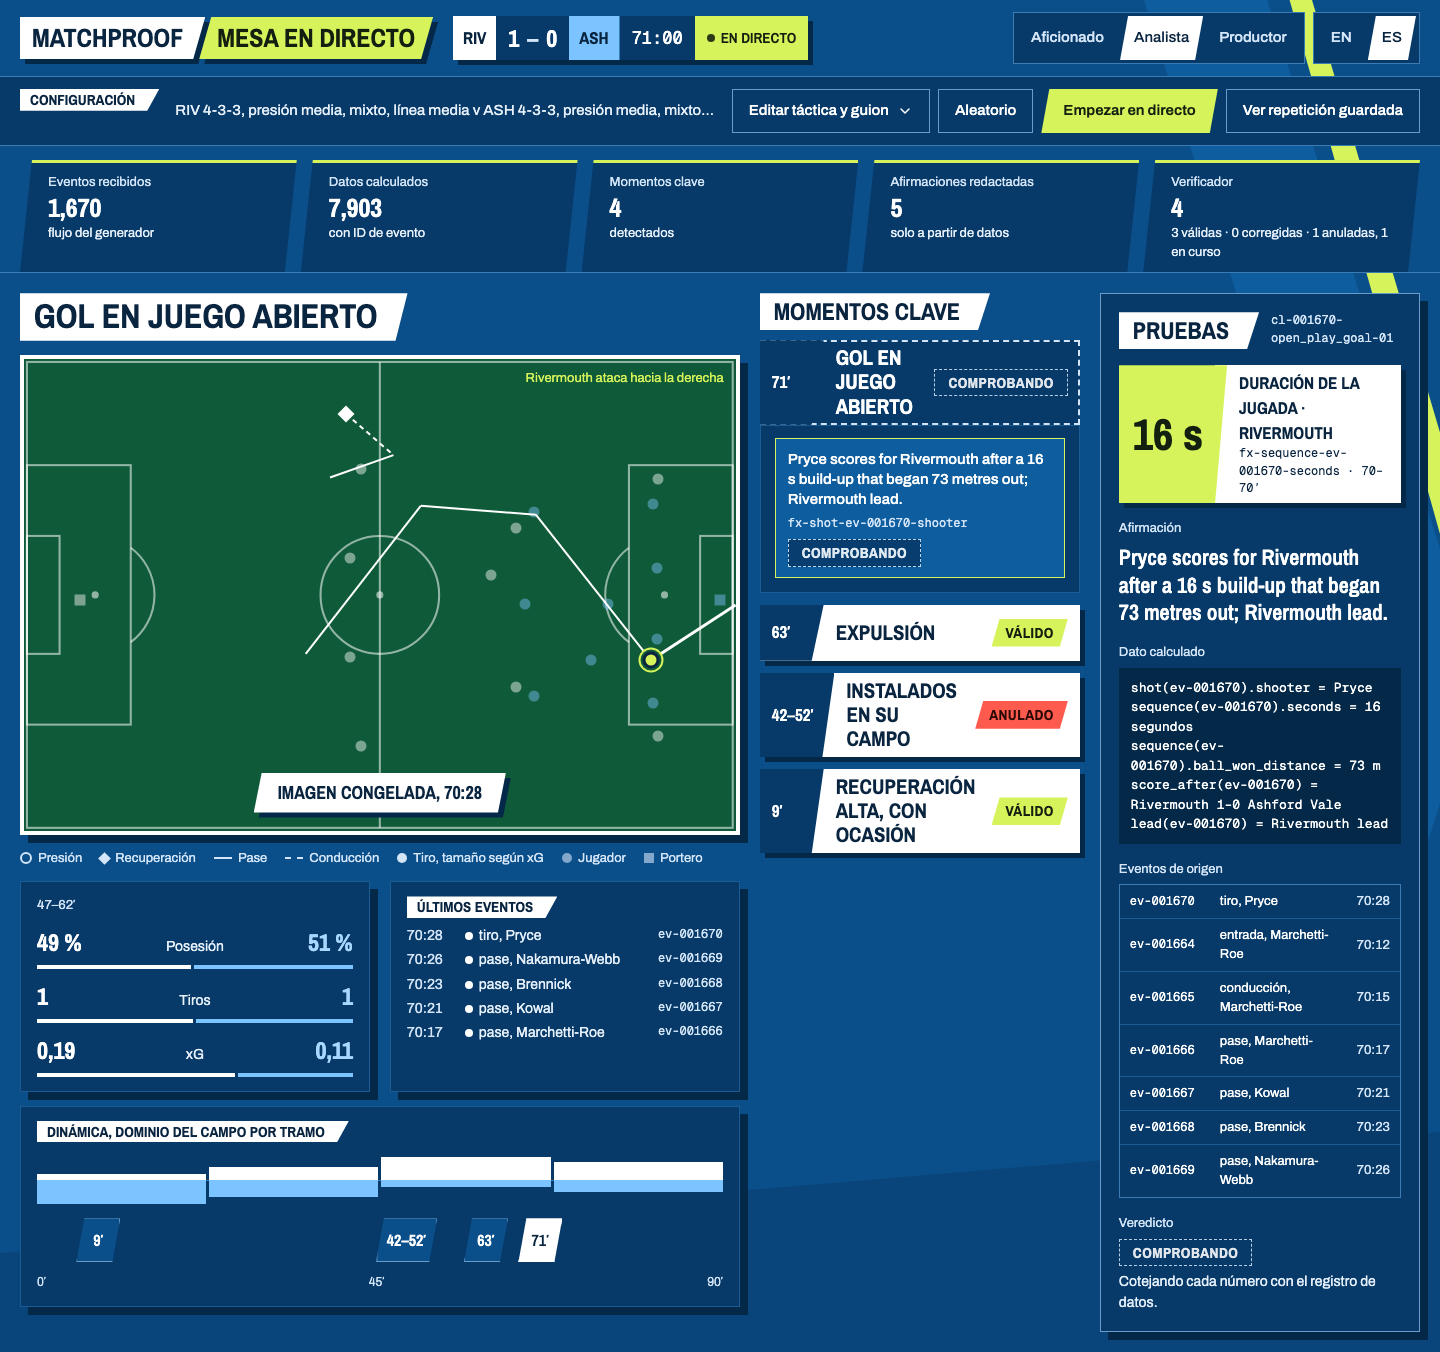
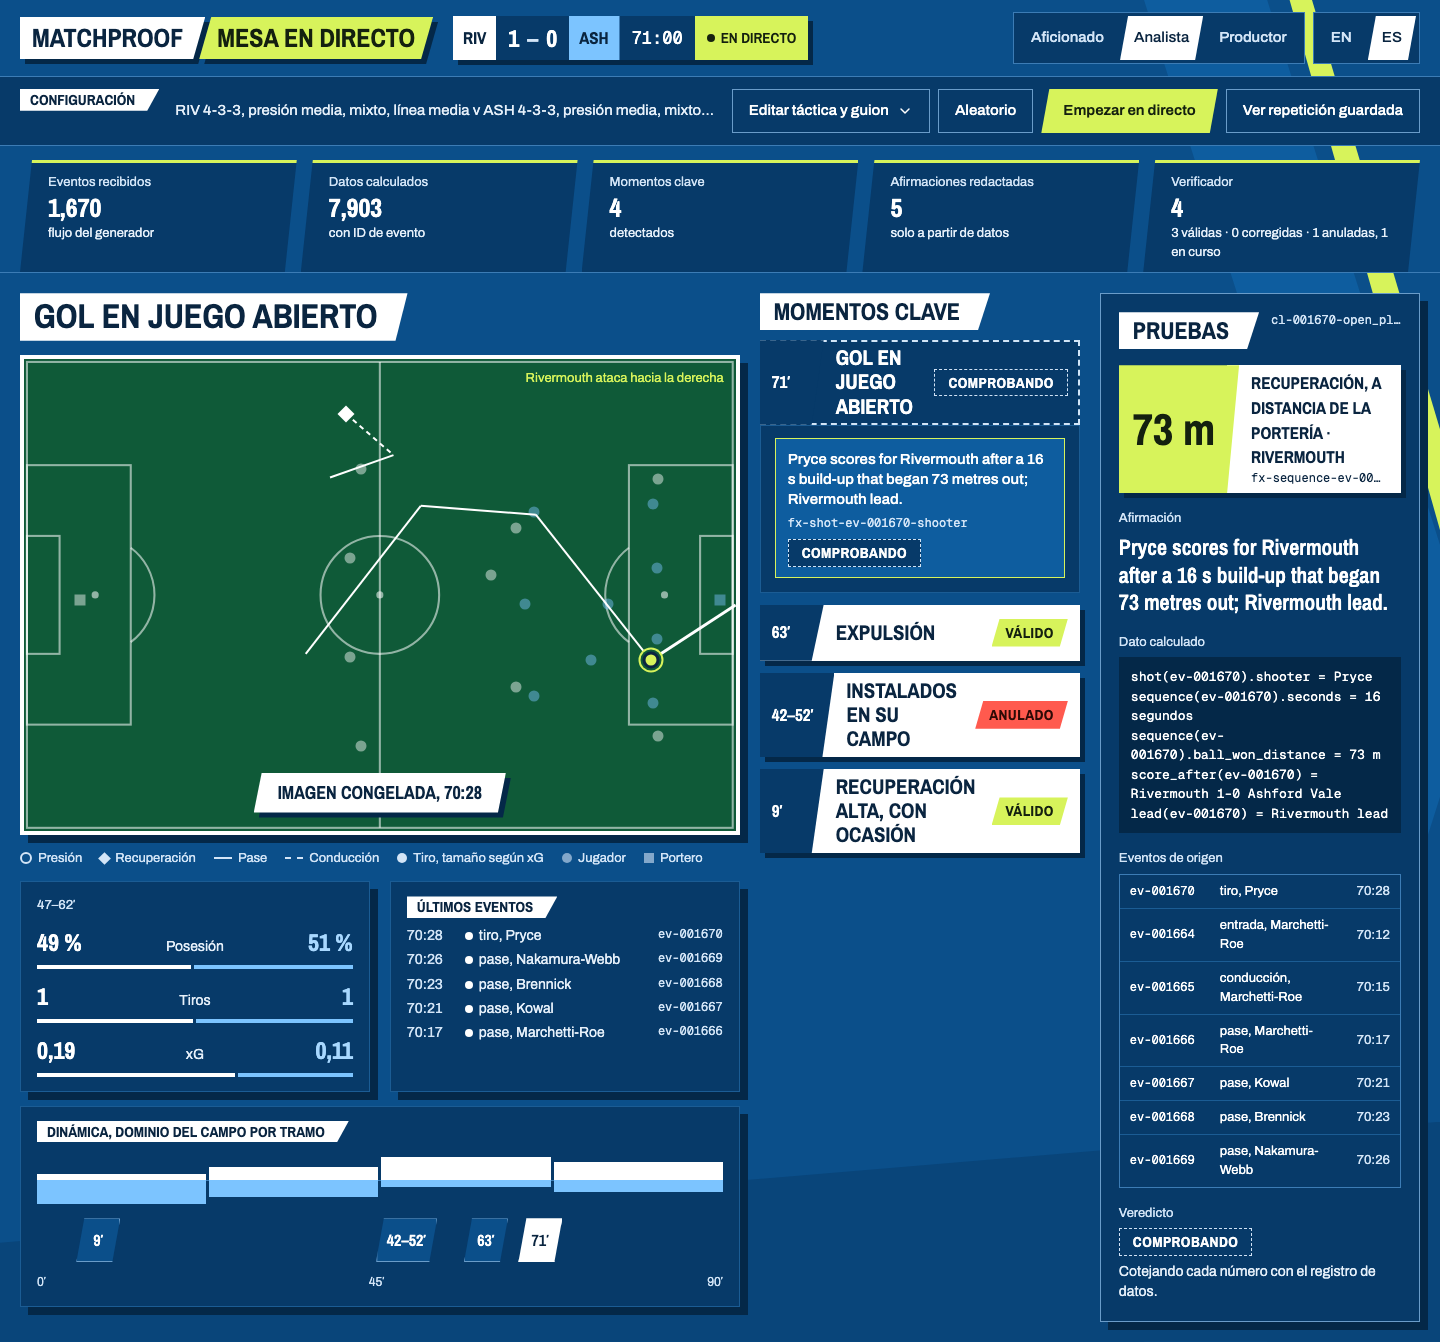
Show overturned claims in Analyst, label checker reasons and tidy the stat card

diff --git a/apps/web/src/desk/railModel.ts b/apps/web/src/desk/railModel.ts
@@ -43,7 +43,9 @@ export function metricKey(name: string): string {
 export function windowLabel(fact: Fact, c: Copy): string | undefined {
   const scope = fact.scope;
   if (scope?.t_from === undefined || scope.t_to === undefined) return undefined;
-  return fill(c.stats.window, { from: formatMinute(scope.t_from), to: formatMinute(scope.t_to) });
+  const from = formatMinute(scope.t_from);
+  const to = formatMinute(scope.t_to);
+  return from === to ? undefined : fill(c.stats.window, { from, to });
 }
 
 function metricLabel(fact: Fact, c: Copy, sideFallback?: "home" | "away"): string {
@@ -51,6 +53,13 @@ function metricLabel(fact: Fact, c: Copy, sideFallback?: "home" | "away"): strin
   const label = c.metric[key] ?? key;
   const side = fact.scope?.side ?? sideFallback;
   return side ? `${label} · ${c.side[side]}` : label;
+}
+
+const isHeadline = (f: Fact): boolean => f.unit === "m" || f.unit === "count" || f.name.startsWith("score_after");
+
+/** The claim's first number a viewer reads as the point: a distance, count or score before a duration. */
+export function pickLead(facts: Fact[]): Fact | undefined {
+  return facts.find(isHeadline) ?? facts.find((f) => f.unit !== "s") ?? facts[0];
 }
 
 export function buildRail(fx: DeskFixture, claimFactIds: string[], numberFactIds: string[], lang: Lang, c: Copy, side?: "home" | "away"): RailView {
@@ -74,7 +83,7 @@ export function buildRail(fx: DeskFixture, claimFactIds: string[], numberFactIds
     return { id, label: c.rail.aggregate, who: source?.kind === "aggregate" ? source.description : "", time: "" };
   });
 
-  const lead = numberFactIds.map((id) => factById.get(id)).find((f) => f !== undefined);
+  const lead = pickLead(numberFactIds.flatMap((id) => factById.get(id) ?? []));
   const statCard = lead
     ? { value: shortDisplayOf(lead, lang), metric: metricLabel(lead, c, side), factId: lead.id, window: windowLabel(lead, c) }
     : undefined;

diff --git a/apps/web/src/app/desk.css b/apps/web/src/app/desk.css
@@ -151,13 +151,15 @@ button:focus-visible, select:focus-visible, textarea:focus-visible, input:focus-
 .mp-card-value { white-space: nowrap; padding: 6px 24px 6px 14px; background: var(--mp-lime); color: var(--mp-limeInk); clip-path: var(--mp-cutTab); font-family: var(--mp-display); font-weight: 700; font-size: 44px; line-height: 1; display: flex; align-items: center; }
 .mp-card-label { flex: 1 1 auto; min-width: 0; margin-left: -12px; padding: 6px 14px 6px 24px; background: var(--mp-chip); color: var(--mp-ink); display: flex; flex-direction: column; justify-content: center; font-size: 13px; }
 .mp-card-label b { font-family: var(--mp-display); font-size: 17px; text-transform: uppercase; }
+.mp-card-id { font-size: 12px; max-width: 100%; overflow: hidden; text-overflow: ellipsis; white-space: nowrap; }
 .mp-step { display: flex; flex-direction: column; gap: 6px; }
 .mp-step > span:first-child { font-size: 13px; color: var(--mp-muted); }
 .mp-code { display: block; padding: 10px 12px; background: var(--mp-code); font-family: var(--mp-mono); font-size: 13px; line-height: 1.5; white-space: pre-wrap; word-break: break-word; }
 .mp-events { border: 1px solid var(--mp-line); }
 .mp-events > div { display: grid; grid-template-columns: 82px minmax(0, 1fr) 52px; gap: 8px; align-items: center; padding: 7px 10px; border-bottom: 1px solid var(--mp-line2); font-size: 13px; }
 .mp-events > div:last-child { border-bottom: 0; }
-.mp-events .mono { font-size: 12px; }
+.mp-events .mono { font-size: 12px; overflow-wrap: anywhere; }
+.mp-rail-id { min-width: 0; font-size: 12px; overflow: hidden; text-overflow: ellipsis; white-space: nowrap; }
 .mp-sr { position: absolute; width: 1px; height: 1px; overflow: hidden; clip-path: inset(50%); white-space: nowrap; }
 
 @media (max-width: 600px) {

diff --git a/apps/web/src/desk/reason.test.ts b/apps/web/src/desk/reason.test.ts
@@ -1,0 +1,36 @@
+import { describe, expect, it } from "vitest";
+import { copy } from "./copy";
+import { fixture } from "./fixture";
+import { buildRail, pickLead } from "./railModel";
+import { displayReason } from "./reason";
+
+describe("displayReason", () => {
+  it("replaces the judge prefix with a category label", () => {
+    expect(displayReason("Judge (overclaim): 'pressing hard' is not in the facts.", copy.en)).toBe("Overclaim: 'pressing hard' is not in the facts.");
+  });
+  it("replaces the voice rule prefix", () => {
+    const raw = 'Voice rule evaluative-adjective broken by "tidy": A judgement the data cannot support; say what happened.';
+    expect(displayReason(raw, copy.es)).toBe("Adjetivo sin respaldo: A judgement the data cannot support; say what happened.");
+  });
+  it("never shows the internal names", () => {
+    for (const claim of fixture.claims) {
+      for (const lang of ["en", "es"] as const) {
+        expect(displayReason(claim.reason ?? "", copy[lang])).not.toMatch(/\bjudge\b|voice rule/i);
+      }
+    }
+  });
+});
+
+describe("stat card", () => {
+  const byId = new Map(fixture.facts.map((f) => [f.id, f]));
+  it("prefers a distance over a duration", () => {
+    const claim = fixture.claims.find((c) => c.id === "cl-001670-open_play_goal-01");
+    const lead = pickLead((claim?.numbers ?? []).flatMap((n) => byId.get(n.fact_id) ?? []));
+    expect(lead?.unit).toBe("m");
+  });
+  it("leaves the window off a single-minute span", () => {
+    const claim = fixture.claims.find((c) => c.id === "cl-001670-open_play_goal-01");
+    const rail = buildRail(fixture, claim?.fact_ids ?? [], (claim?.numbers ?? []).map((n) => n.fact_id), "en", copy.en);
+    expect(rail.statCard?.window).toBeUndefined();
+  });
+});

diff --git a/apps/web/src/components/desk/EvidenceRail.tsx b/apps/web/src/components/desk/EvidenceRail.tsx
@@ -1,6 +1,7 @@
 import type { Copy } from "@/desk/copy";
 import type { ClaimView } from "@/desk/model";
 import type { RailView } from "@/desk/railModel";
+import { displayReason } from "@/desk/reason";
 import { SectionTab } from "./SectionTab";
 import { StatCard } from "./StatCard";
 import { VerdictStamp } from "./VerdictStamp";
@@ -14,13 +15,13 @@ interface EvidenceRailProps {
 export function EvidenceRail({ copy, claim, rail }: EvidenceRailProps) {
   const r = copy.rail;
   const verdict = claim?.verdict;
-  const note = verdict === "checking" || verdict === "verified" || verdict === "delayed" ? copy.verdictNote[verdict] : claim?.claim.reason;
+  const note = verdict === "checking" || verdict === "verified" || verdict === "delayed" ? copy.verdictNote[verdict] : claim?.claim.reason ? displayReason(claim.claim.reason, copy) : undefined;
   return (
     <aside className="mp-col-rail mp-above" aria-label={r.title}>
       <div className="mp-rail">
         <div className="mp-rail-head">
           <SectionTab size="md">{r.title}</SectionTab>
-          <span className="mono mp-muted" style={{ fontSize: 12 }}>{claim?.claim.id}</span>
+          <span className="mono mp-muted mp-rail-id" title={claim?.claim.id}>{claim?.claim.id}</span>
         </div>
         {!claim || !rail ? <p className="mp-muted">{r.empty}</p> : null}
         {claim && rail ? (

diff --git a/apps/web/src/desk/model.ts b/apps/web/src/desk/model.ts
@@ -15,7 +15,10 @@ export interface BeatView {
   headlineKey: string;
   verdict: Verdict;
   claims: ClaimView[];
+  /** Claims the checker overturned in this beat, whether or not the mode shows them. */
   removed: number;
+  /** Every claim verdict in the beat, shown or not. */
+  verdicts: Verdict[];
   selected: boolean;
 }
 
@@ -39,7 +42,7 @@ export function beatVerdict(verdicts: Verdict[]): Verdict {
 }
 
 function showsBlocked(mode: Mode): boolean {
-  return mode === "producer";
+  return mode !== "fan";
 }
 
 export function buildModel(fx: DeskFixture, state: ReviewState): DeskModel {
@@ -62,13 +65,14 @@ export function buildModel(fx: DeskFixture, state: ReviewState): DeskModel {
   const feed = [...revealed].reverse().map((beat): BeatView => {
     const all = claimsOf(beat).map((claim) => ({ claim, verdict: verdictOf(claim, beat), selected: claim.id === wanted }));
     const shown = all.filter((c) => showsBlocked(state.mode) || c.verdict !== "blocked");
-    const removed = all.length - shown.length;
+    const removed = all.filter((c) => c.verdict === "blocked").length;
     return {
       beat,
       headlineKey: beat.kind,
       verdict: beatVerdict(all.map((c) => c.verdict)),
       claims: shown,
       removed,
+      verdicts: all.map((c) => c.verdict),
       selected: beat.id === selectedBeat?.id,
     };
   });

diff --git a/apps/web/src/components/desk/ClaimItem.tsx b/apps/web/src/components/desk/ClaimItem.tsx
@@ -1,5 +1,6 @@
 import type { Copy } from "@/desk/copy";
 import type { ClaimView } from "@/desk/model";
+import { displayReason } from "@/desk/reason";
 import { VerdictStamp } from "./VerdictStamp";
 
 interface ClaimItemProps {
@@ -19,12 +20,12 @@ export function ClaimItem({ copy, view, onPick }: ClaimItemProps) {
         <span className={overturned ? "mp-struck" : undefined} style={{ fontWeight: 500, lineHeight: 1.35 }}>
           {overturned ? (claim.draft_text ?? claim.text) : claim.text}
         </span>
-        {overturned && claim.reason ? <span className="mp-note">{claim.reason}</span> : null}
+        {overturned && claim.reason ? <span className="mp-note">{displayReason(claim.reason, copy)}</span> : null}
         <span style={{ display: "flex", flexWrap: "wrap", alignItems: "center", justifyContent: "space-between", gap: "6px 10px" }}>
           <span className="mono mp-muted" style={{ fontSize: 12 }}>
             {claim.fact_ids[0]}
           </span>
-          <VerdictStamp verdict={verdict} copy={copy} reason={claim.reason} />
+          <VerdictStamp verdict={verdict} copy={copy} reason={claim.reason ? displayReason(claim.reason, copy) : undefined} />
         </span>
       </button>
     </li>

diff --git a/apps/web/e2e/shots.spec.ts b/apps/web/e2e/shots.spec.ts
@@ -21,6 +21,10 @@ test("full-page desk shots", async ({ page }) => {
   await page.screenshot({ path: `${OUT}/setup-open-1440.png`, fullPage: true });
   await open(page, "?mode=fan");
   await page.screenshot({ path: `${OUT}/fan-1440.png`, fullPage: true });
+  await open(page, "?mode=producer&beat=bt-000993-territorial_spell");
+  await page.screenshot({ path: `${OUT}/producer-1440.png`, fullPage: true });
+  await open(page, "?beat=bt-000993-territorial_spell");
+  await page.screenshot({ path: `${OUT}/analyst-overturned-1440.png`, fullPage: true });
   await open(page, "?lang=es");
   await page.screenshot({ path: `${OUT}/es-1440.png`, fullPage: true });
   await open(page, "", PHONE);
@@ -33,7 +37,7 @@ const STAMPS: [string, string, string][] = [
   ["checking", "", "CHECKING"],
   ["verified", "?beat=bt-001484-card", "STANDS"],
   ["rephrased", "?claim=cl-001670-open_play_goal-01&stamp=rephrased", "AMENDED"],
-  ["blocked", "?mode=producer&beat=bt-000993-territorial_spell", "OVERTURNED"],
+  ["blocked", "?beat=bt-000993-territorial_spell", "OVERTURNED"],
   ["delayed", "?stamp=delayed", "HELD"],
 ];
 

diff --git a/apps/web/src/desk/statsModel.ts b/apps/web/src/desk/statsModel.ts
@@ -80,17 +80,16 @@ export function scoreAt(fx: DeskFixture, clock: number): { home: number; away: n
 
 export function buildPipeline(fx: DeskFixture, model: DeskModel): PipelineView {
   const counts = fx.count_timeline[model.minute] ?? { events: 0, facts: 0 };
-  const verdicts = model.feed.flatMap((row) => row.claims.map((c) => c.verdict));
+  const verdicts = model.feed.flatMap((row) => row.verdicts);
   const tally = (v: string): number => verdicts.filter((x) => x === v).length;
-  const removed = model.feed.reduce((sum, row) => sum + row.removed, 0);
   return {
     events: counts.events,
     facts: counts.facts,
     beats: model.revealed.length,
-    claims: verdicts.length + removed,
+    claims: verdicts.length,
     stand: tally("verified"),
     amended: tally("rephrased"),
-    overturned: tally("blocked") + removed,
+    overturned: tally("blocked"),
     checking: tally("checking"),
   };
 }

diff --git a/apps/web/src/desk/reason.ts b/apps/web/src/desk/reason.ts
@@ -1,0 +1,16 @@
+import type { Copy } from "./copy";
+
+const JUDGE = /^Judge \(([^)]+)\):\s*(.*)$/s;
+const VOICE = /^Voice rule ([\w-]+) broken by [^:]*:\s*(.*)$/s;
+const INTERNAL = /\bjudge\b|voice rule/i;
+
+/** A checker reason for the desk: a short category label from copy, then the sentence after the prefix. */
+export function displayReason(raw: string, c: Copy): string {
+  const match = JUDGE.exec(raw) ?? VOICE.exec(raw);
+  const labels: Record<string, string> = c.reasonCategory;
+  if (match) {
+    const [, category = "", sentence = ""] = match;
+    return `${labels[category] ?? c.reasonCategory.other}: ${sentence}`;
+  }
+  return INTERNAL.test(raw) ? c.reasonCategory.other : raw;
+}

diff --git a/apps/web/src/components/desk/StatCard.tsx b/apps/web/src/components/desk/StatCard.tsx
@@ -11,9 +11,9 @@ export function StatCard({ view }: StatCardProps) {
         <span className="mp-card-value num">{view.value}</span>
         <span className="mp-card-label">
           <b>{view.metric}</b>
-          <span className="mono" style={{ fontSize: 12 }}>
+          {view.window ? <span className="num">{view.window}</span> : null}
+          <span className="mono mp-card-id" title={view.factId}>
             {view.factId}
-            {view.window ? ` · ${view.window}` : ""}
           </span>
         </span>
       </div>

diff --git a/apps/web/src/components/desk/KeyMomentRow.tsx b/apps/web/src/components/desk/KeyMomentRow.tsx
@@ -18,7 +18,7 @@ export function KeyMomentRow({ copy, mode, row, headline, onBeat, onClaim }: Key
   const checking = row.verdict === "checking";
   const fan = mode === "fan";
   const removedText =
-    row.removed === 0 || checking
+    row.removed === 0 || checking || mode === "analyst"
       ? undefined
       : mode === "producer"
         ? fill(copy.feedExtra.producerRemoved, { n: row.removed })
